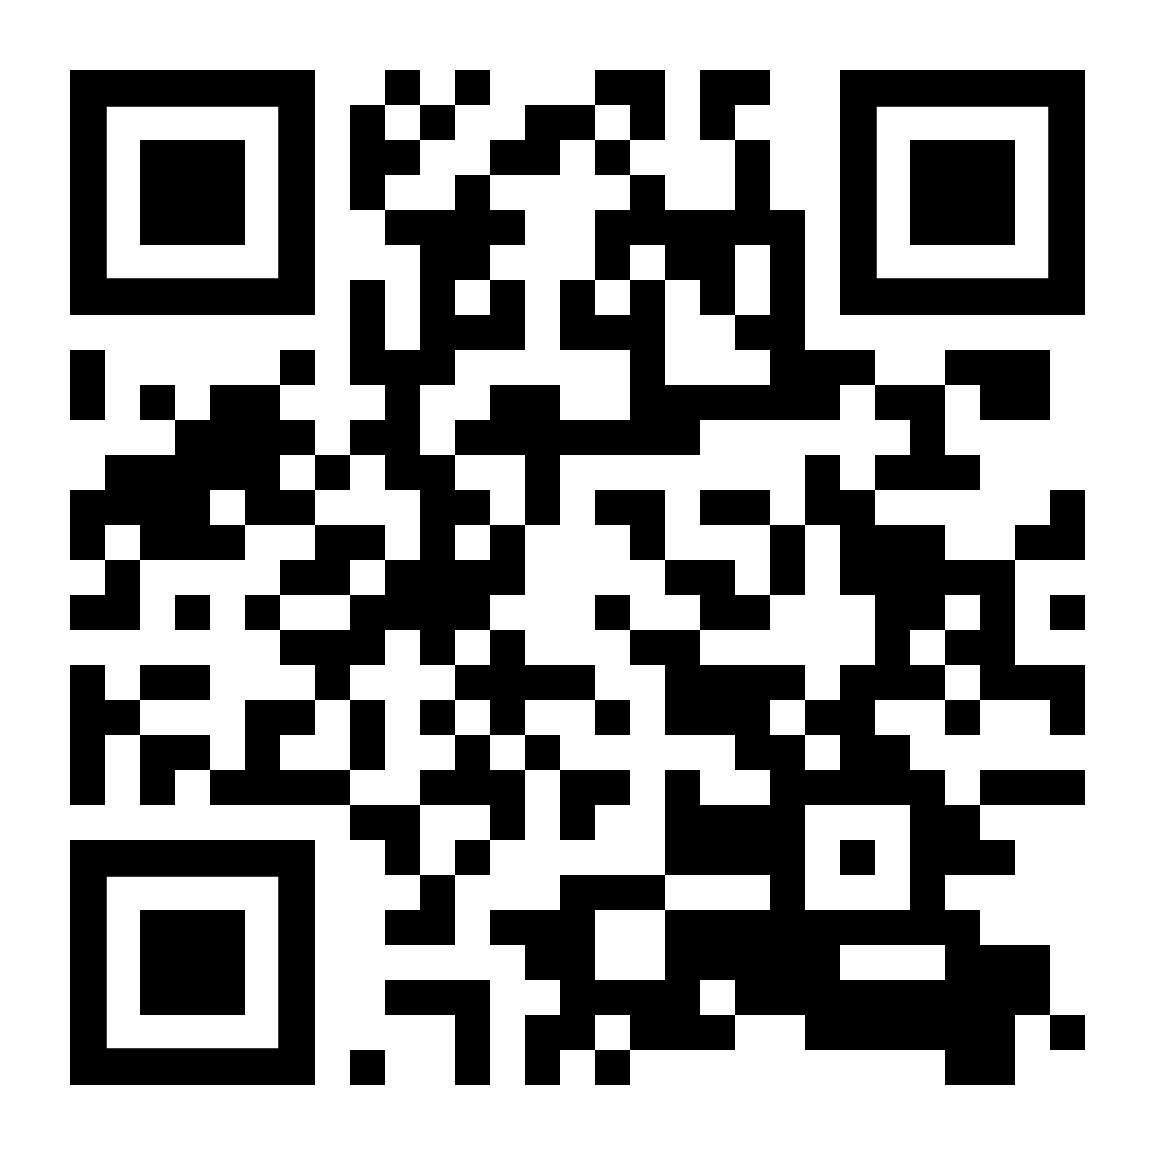
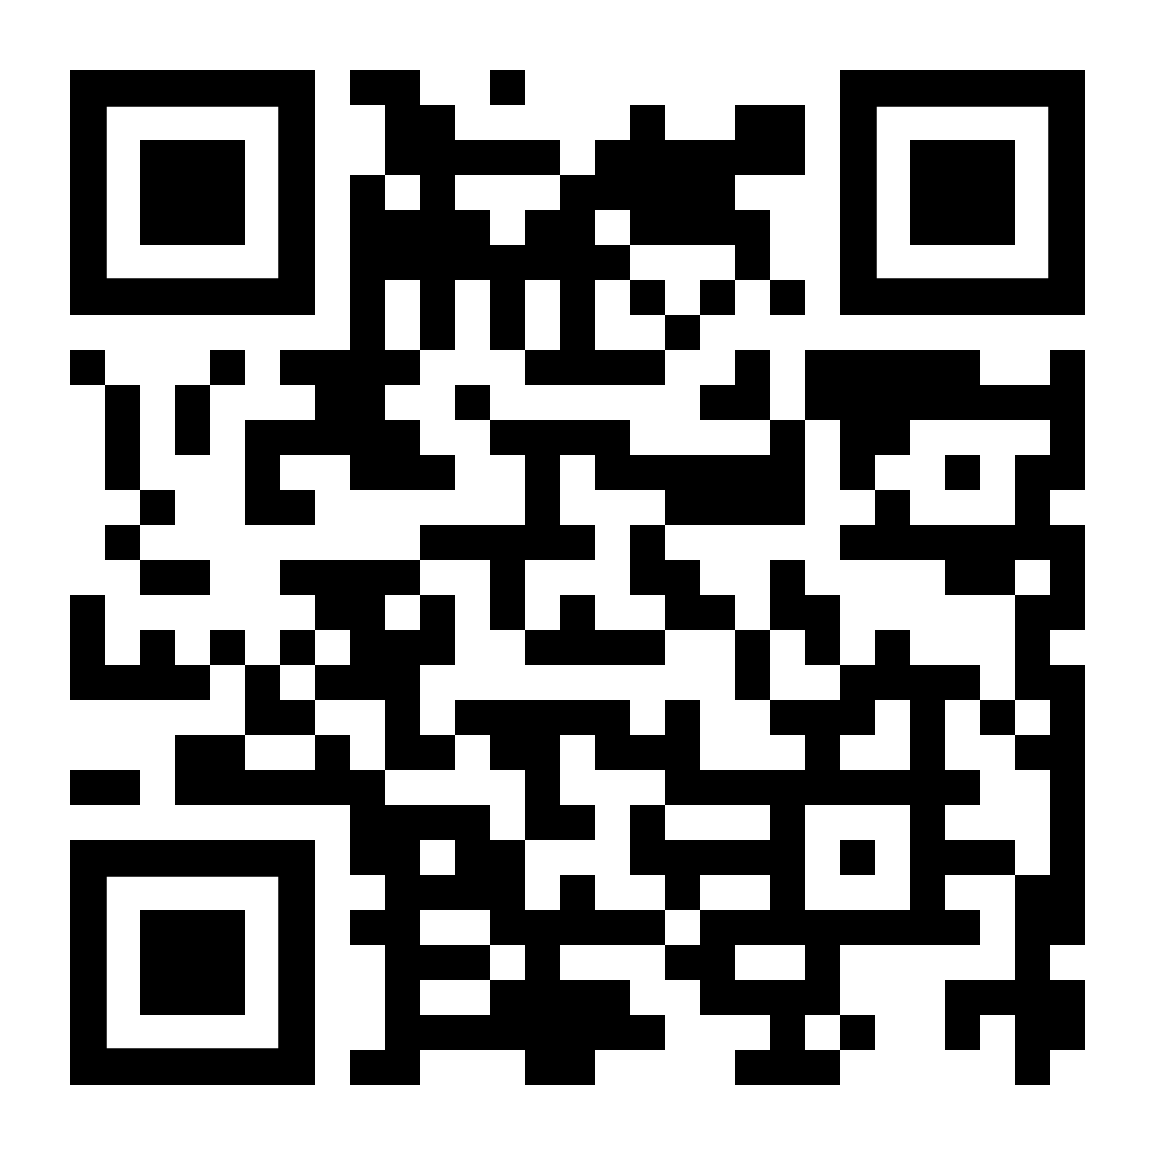
link to clean video

Changed region(s): [[0.0623, 0.0623, 0.9662, 0.9662]]

diff --git a/FS1005_13.html b/FS1005_13.html
@@ -69,7 +69,7 @@
             <section>
 				<p> To view the <b>video</b> just follow the links:
 					<br>
-					<a href="https://youtu.be/7gP7zIKO2ik">👉<i>https://youtu.be/7gP7zIKO2ik</i></a>
+					<a href="https://youtu.be/1UgQFuLC1P4">👉<i>https://youtu.be/1UgQFuLC1P4</i></a>
 				</p>
 
 				<img title="Scan me with your phone!" src="img/qr_fs1005_yt13.png" alt="if you don't see a QR code click the link" style="height: 340px; margin: 0 auto 4rem auto; background: transparent;" class="qr_code">
